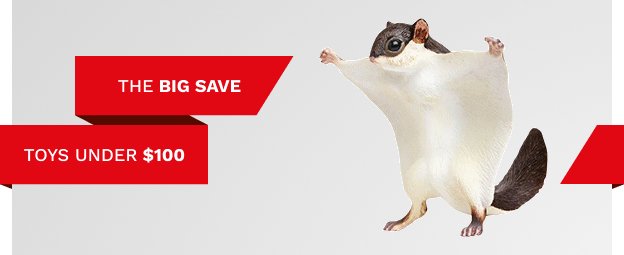
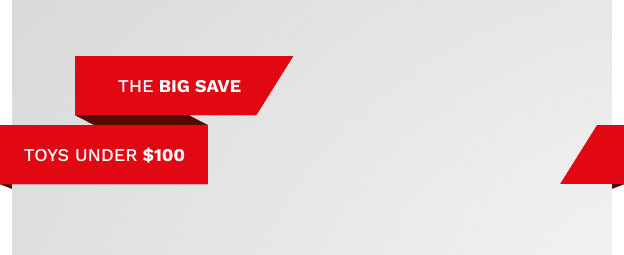
block with animated squirrel added

Changed region(s): [[0.5481, 0.0549, 0.883, 0.9333], [0.4872, 0.1922, 0.5481, 0.2745]]

diff --git a/clearstrike-template.html b/clearstrike-template.html
@@ -99,7 +99,8 @@
           </table>
           <table
             style="
-              background: url(https://raw.githubusercontent.com/anotheronebeth/email-template/main/images/special-offers-subscribe.jpg);
+              margin-bottom: 24px;
+              background-image: url(https://raw.githubusercontent.com/anotheronebeth/email-template/main/images/special-offers-subscribe.jpg);
             "
             width="600px"
             height="180px"
@@ -126,6 +127,18 @@
               </td>
             </tr>
           </table>
+          <div
+            style="
+              width: 624px;
+              background-image: url(https://raw.githubusercontent.com/anotheronebeth/email-template/main/images/the-big-save-banner.jpg);
+            "
+          >
+            <img
+              style="margin-left: 39%"
+              src="https://raw.githubusercontent.com/anotheronebeth/email-template/main/images/squirrel.gif"
+              alt="squirrelgif"
+            />
+          </div>
         </td>
       </tr>
     </table>
